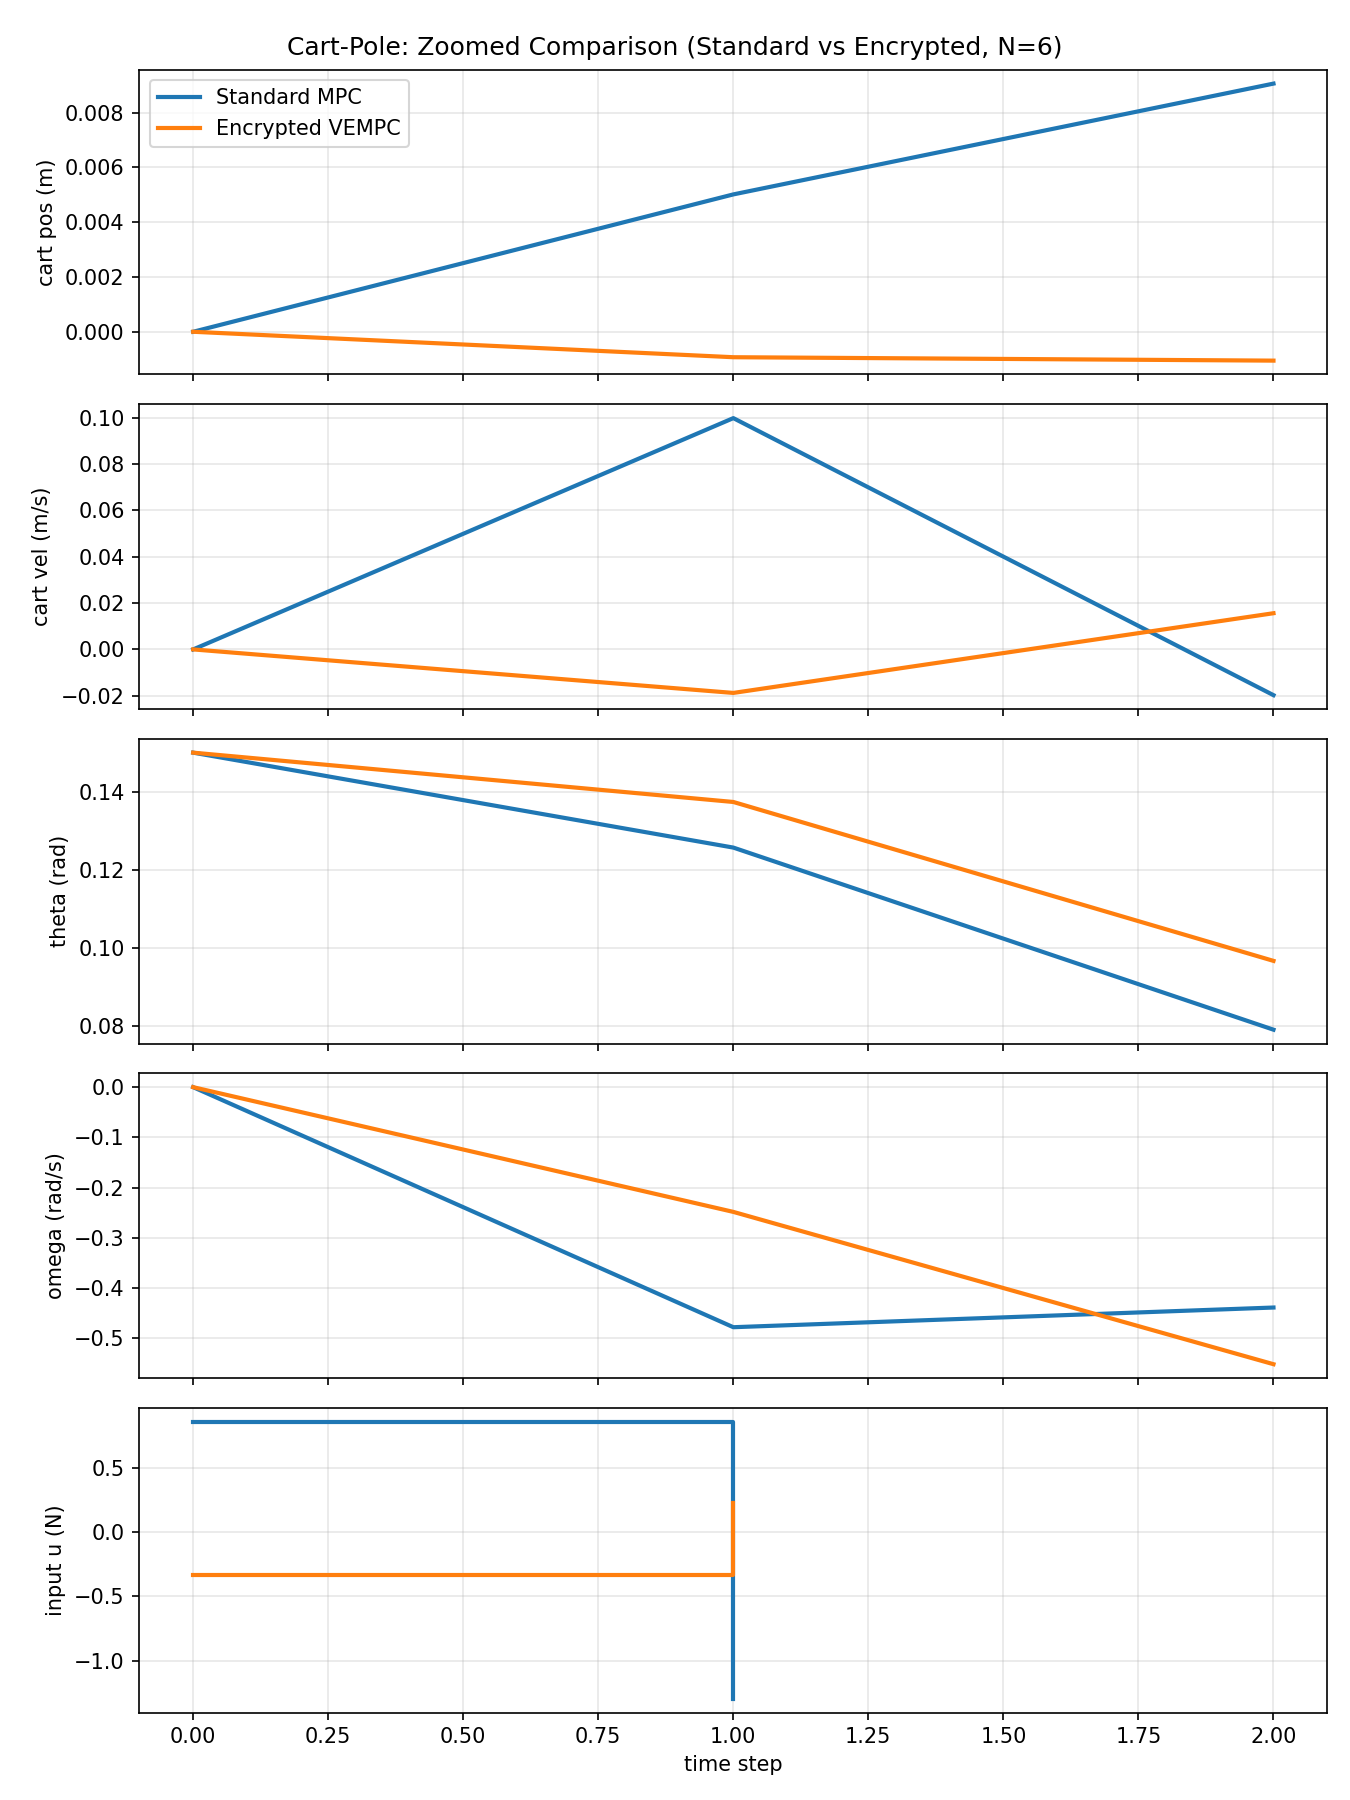
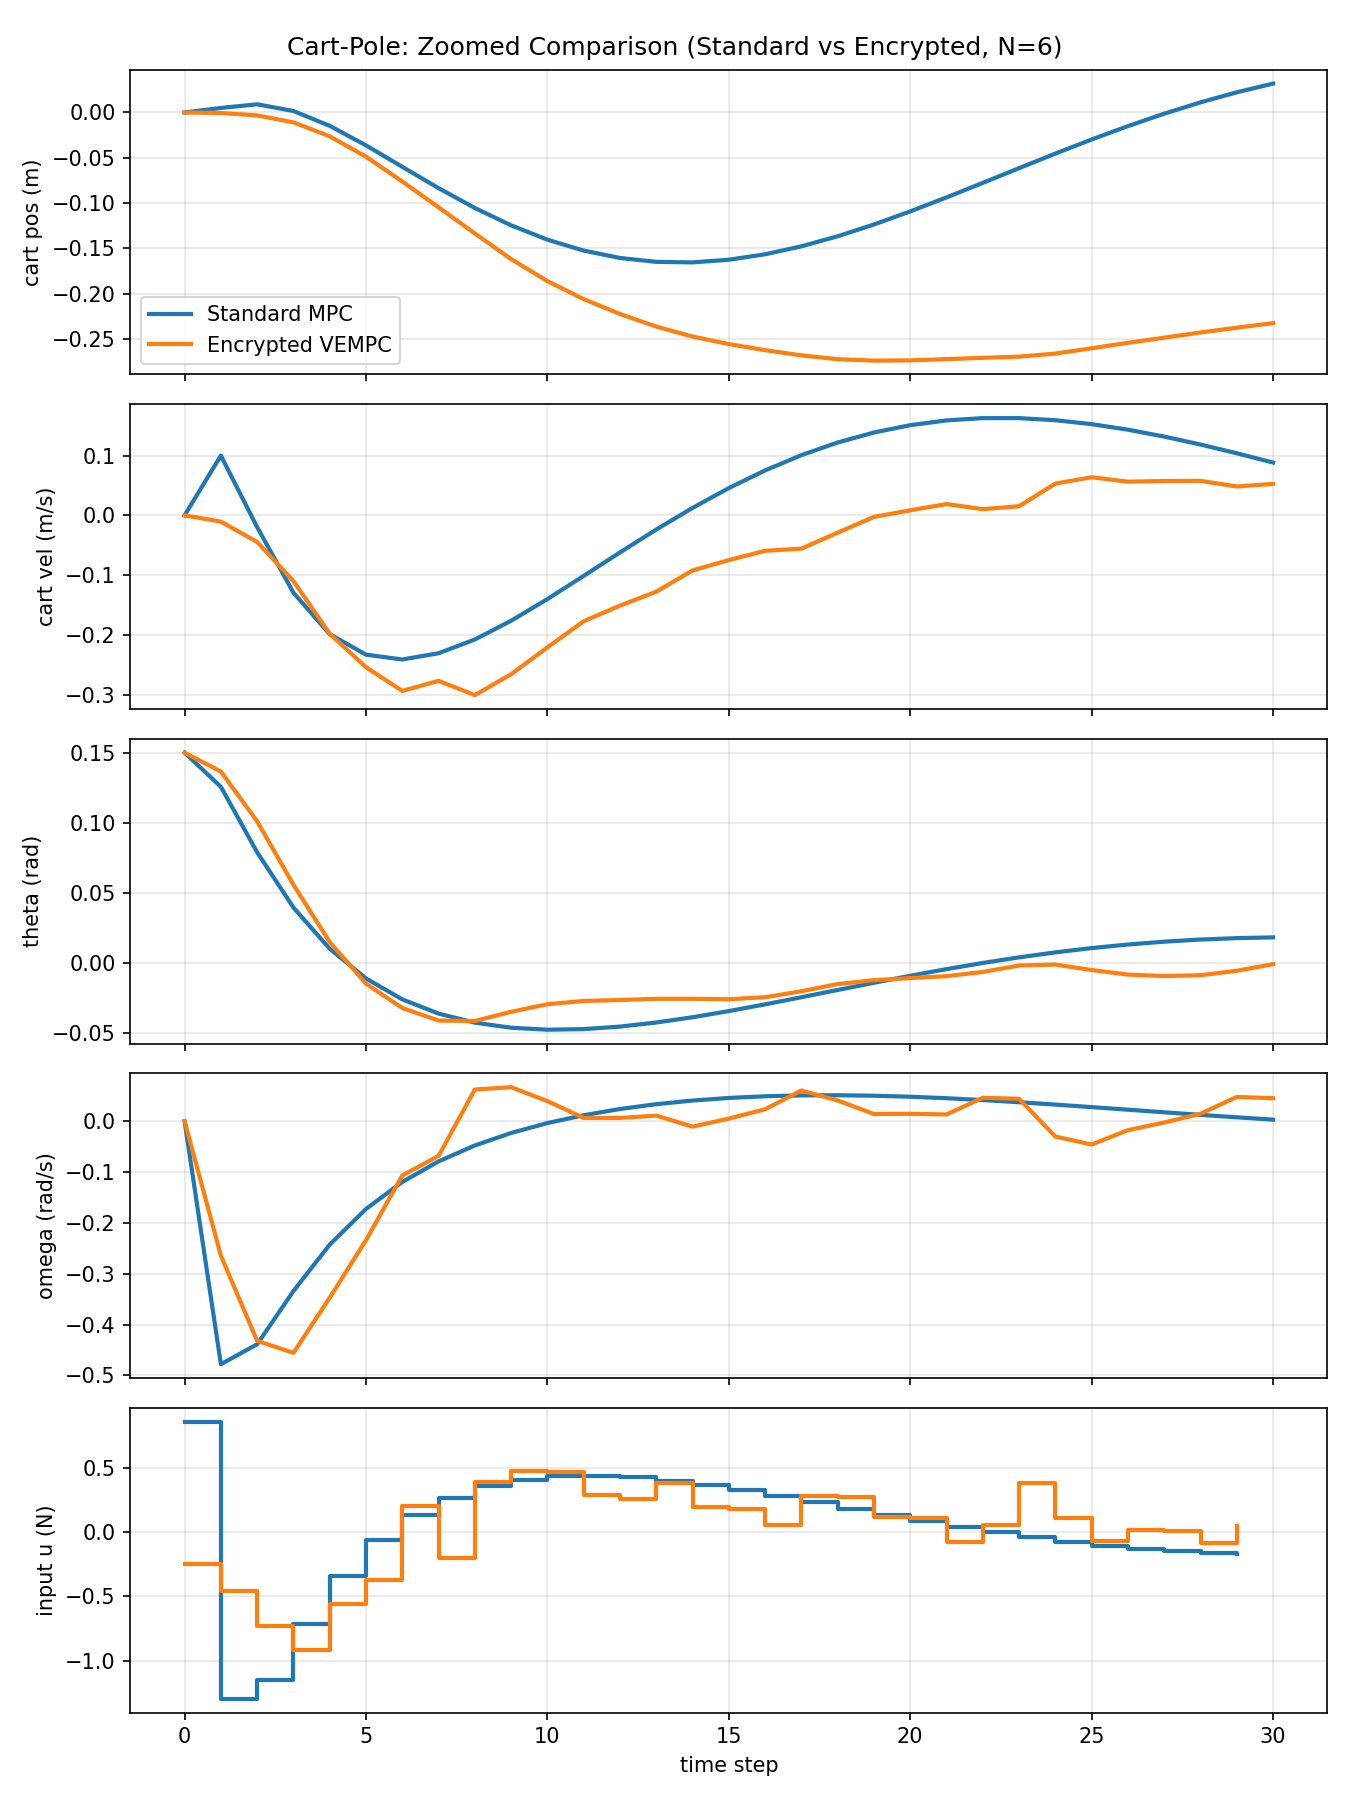
T_steps=30 run result with plots

diff --git a/vempc/notebooks/test_encrypted_pend.py b/vempc/notebooks/test_encrypted_pend.py
@@ -54,7 +54,7 @@ N         = 6    # MPC horizon; longer horizon improves stabilization of
                  # the unstable cart-pole system
 K         = 500  # total samples
 N_WORKERS = 4    # K_chunk = 125
-T_steps   = 2
+T_steps   = 30
 
 # Small initial deviation from upright equilibrium.
 # Angle of 0.15 rad (~8.6 deg) is well within the relaxed theta_max=0.5.
